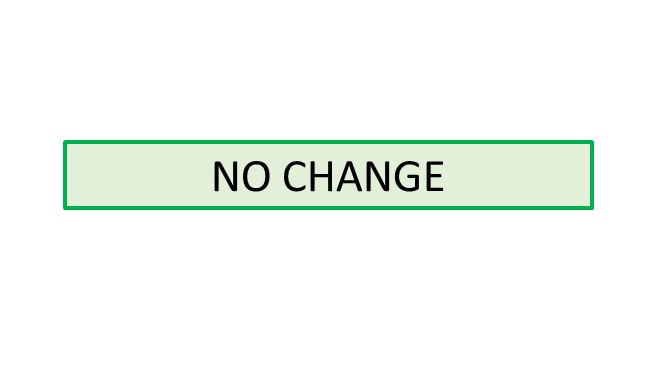
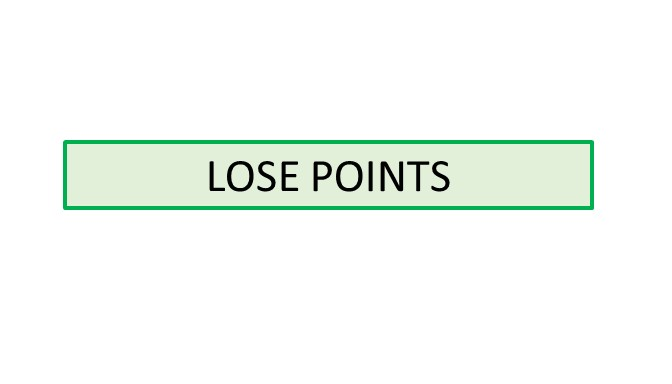
fixing last issues with nonsocial KB

Changed region(s): [[0.3125, 0.4062, 0.6875, 0.5]]

diff --git a/exp/conf.js b/exp/conf.js
@@ -12,7 +12,7 @@
 const qualtrics = "https://yalesurvey.ca1.qualtrics.com/jfe/form/SV_0U3wW3G3HfY8Ie1?Q_JFE=qdg&workerId=";
 
 
-const taskVersion="nonsocial_gain";
+const taskVersion="nonsocial_loss";
 let fileExtension;
 let instructions1;
 let instructions2;
@@ -91,7 +91,7 @@ switch(taskVersion) {
    break;
 
   case "nonsocial_gain":
-    fileExtension='.png';
+    fileExtension='.jpg';
     instructions1='<h2 style="color:black;">In the first part of the experiment, you are asked to earn as many points as possible.</h2>' +
     '<h3 style="color:black;">You will be presented with unique shapes.</h3> '+
     '<h3 style="color:black;">You will observe whether or not the shapes are followed by points .</h3>'+
@@ -113,14 +113,14 @@ switch(taskVersion) {
    '<h2 style="color:black;">Shape <strong><u>is not</strong></u> followed by points &#8594 <q><strong>0</strong></q> key </h2>'+
    '<h2 style="color:black;">Shape <strong><u>is</strong></u> followed by points &#8594 <q><strong>1</strong></q> key</h2>'+
    '<p style="color:black;">Press the spacebar to begin the practice trials.</p>';
-   feedbackNegative='<img src=stimuli/allergy/-.jpg ></img>';
-   feedbackPositive='<img src=stimuli/allergy/+.jpg ></img>';
-   responseOptions='1 Allergy&nbsp&nbsp&nbsp&nbsp&nbsp&nbsp&nbsp&nbsp&nbsp&nbsp&nbsp&nbsp&nbsp&nbsp&nbsp&nbsp&nbsp&nbsp&nbsp&nbsp&nbsp&nbsp&nbsp&nbsp0 No Reaction <br><br> Hold response key to indicate confidence level.';
+   feedbackNegative='<img src=stimuli/nonsocial_gain/-.jpg ></img>';
+   feedbackPositive='<img src=stimuli/nonsocial_gain/+.jpg ></img>';
+   responseOptions='1 Gain Points&nbsp&nbsp&nbsp&nbsp&nbsp&nbsp&nbsp&nbsp&nbsp&nbsp&nbsp&nbsp&nbsp&nbsp&nbsp&nbsp&nbsp&nbsp&nbsp&nbsp&nbsp&nbsp&nbsp&nbsp0 No Points <br><br> Hold response key to indicate confidence level.';
    question1= "Did you consider your relationship with the shapes when making choices?";;
    question2= "Did any of the shapes deliberately sabotage you?"; 
    break;
   case "nonsocial_loss":
-    fileExtension='.png';
+    fileExtension='.jpg';
     instructions1='<h2 style="color:black;">In the first part of the experiment, you are asked to avoid losing any points.</h2>' +
     '<h3 style="color:black;">You will be presented with unique shapes.</h3> '+
     '<h3 style="color:black;">You will observe whether or not the shapes are followed by a loss of points .</h3>'+
@@ -142,9 +142,9 @@ switch(taskVersion) {
    '<h2 style="color:black;">Shape <strong><u>is not</strong></u> followed by loss of points &#8594 <q><strong>0</strong></q> key </h2>'+
    '<h2 style="color:black;">Shape <strong><u>is</strong></u> followed by loss of points &#8594 <q><strong>1</strong></q> key</h2>'+
    '<p style="color:black;">Press the spacebar to begin the practice trials.</p>';
-   feedbackNegative='<img src=stimuli/allergy/-.jpg ></img>';
-   feedbackPositive='<img src=stimuli/allergy/+.jpg ></img>';
-   responseOptions='1 Allergy&nbsp&nbsp&nbsp&nbsp&nbsp&nbsp&nbsp&nbsp&nbsp&nbsp&nbsp&nbsp&nbsp&nbsp&nbsp&nbsp&nbsp&nbsp&nbsp&nbsp&nbsp&nbsp&nbsp&nbsp0 No Reaction <br><br> Hold response key to indicate confidence level.';
+   feedbackNegative='<img src=stimuli/nonsocial_loss/-.jpg ></img>';
+   feedbackPositive='<img src=stimuli/nonsocial_loss/+.jpg ></img>';
+   responseOptions='1 Lose Points&nbsp&nbsp&nbsp&nbsp&nbsp&nbsp&nbsp&nbsp&nbsp&nbsp&nbsp&nbsp&nbsp&nbsp&nbsp&nbsp&nbsp&nbsp&nbsp&nbsp&nbsp&nbsp&nbsp&nbsp0 No Points<br><br> Hold response key to indicate confidence level.';
    question1= "Did you consider your relationship with the shapes when making choices?";;
    question2= "Did any of the shapes deliberately sabotage you?"; 
    break;
